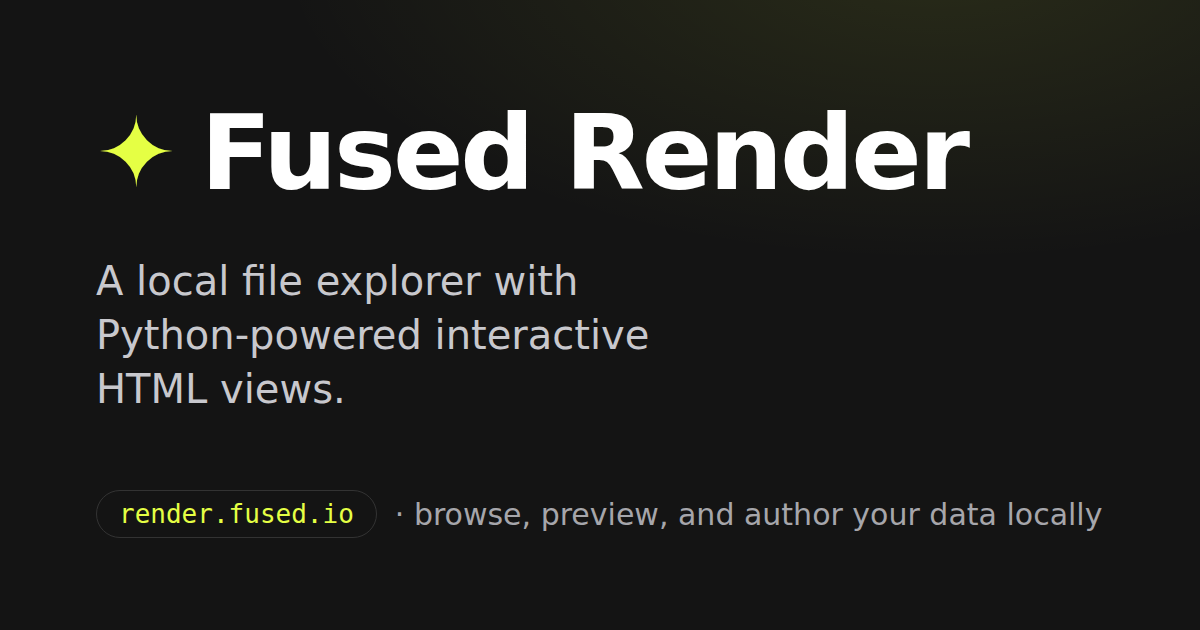
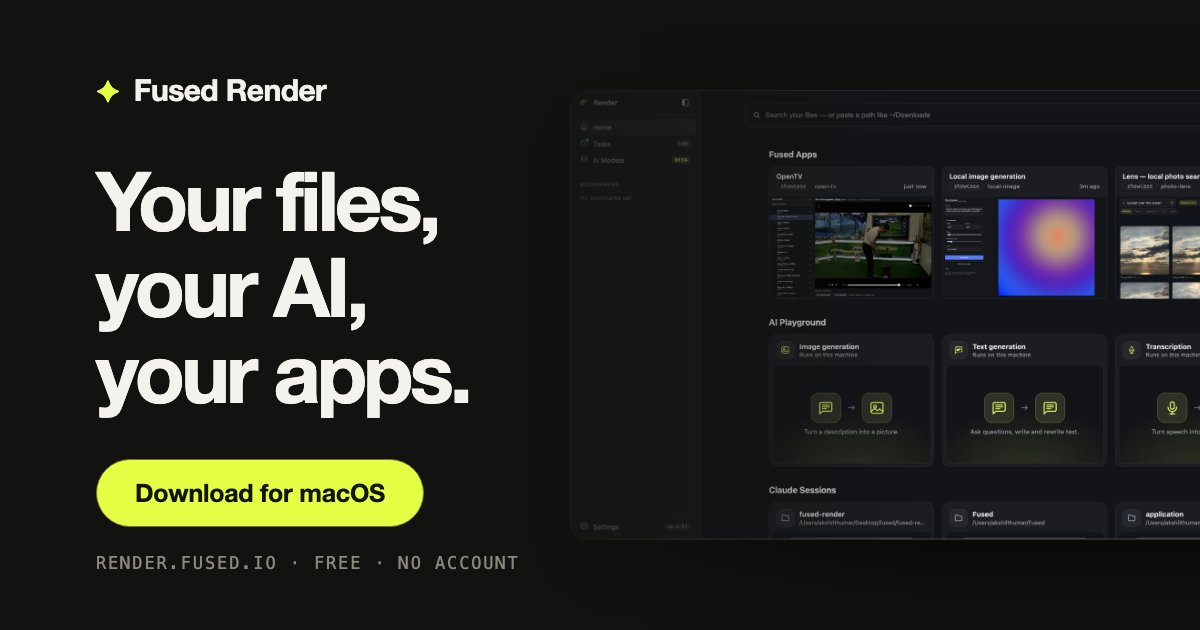
Landing: social card and meta copy match the new hero
- og-image.png redrawn as a mini landing hero: three-line headline,
  lime download pill, the app home screen fading in on the right,
  render.fused.io fine print.
- Title and descriptions now read "your files, your AI, your apps"
  instead of the old explorer-first copy.

diff --git a/scripts/download_page/index.html b/scripts/download_page/index.html
@@ -8,15 +8,15 @@
 <head>
 <meta charset="utf-8">
 <meta name="viewport" content="width=device-width, initial-scale=1">
-<title>Fused Render — run any AI model, build any app, open any file</title>
-<meta name="description" content="A desktop app that previews 100+ kinds of file, runs AI models on your own machine, and lets you build and share small AI-powered apps.">
+<title>Fused Render — your files, your AI, your apps</title>
+<meta name="description" content="Open any file, run AI models locally, and build AI-powered apps with Claude. Free — one download, no account, everything stays on your machine.">
 <meta name="theme-color" content="#000000">
 <!-- This page is also proxied at www.fused.io/render/; render.fused.io is canonical. -->
 <link rel="canonical" href="https://render.fused.io/">
 <meta property="og:type" content="website">
 <meta property="og:site_name" content="Fused Render">
-<meta property="og:title" content="Fused Render — run any AI model, build any app, open any file">
-<meta property="og:description" content="AI models, AI apps, and a very fast file explorer. One download, no account.">
+<meta property="og:title" content="Fused Render — your files, your AI, your apps">
+<meta property="og:description" content="Open any file, run AI models locally, and build AI-powered apps with Claude. Free — one download, no account.">
 <meta property="og:url" content="https://render.fused.io/">
 <meta property="og:image" content="https://render.fused.io/og-image.png">
 <meta name="twitter:card" content="summary_large_image">
